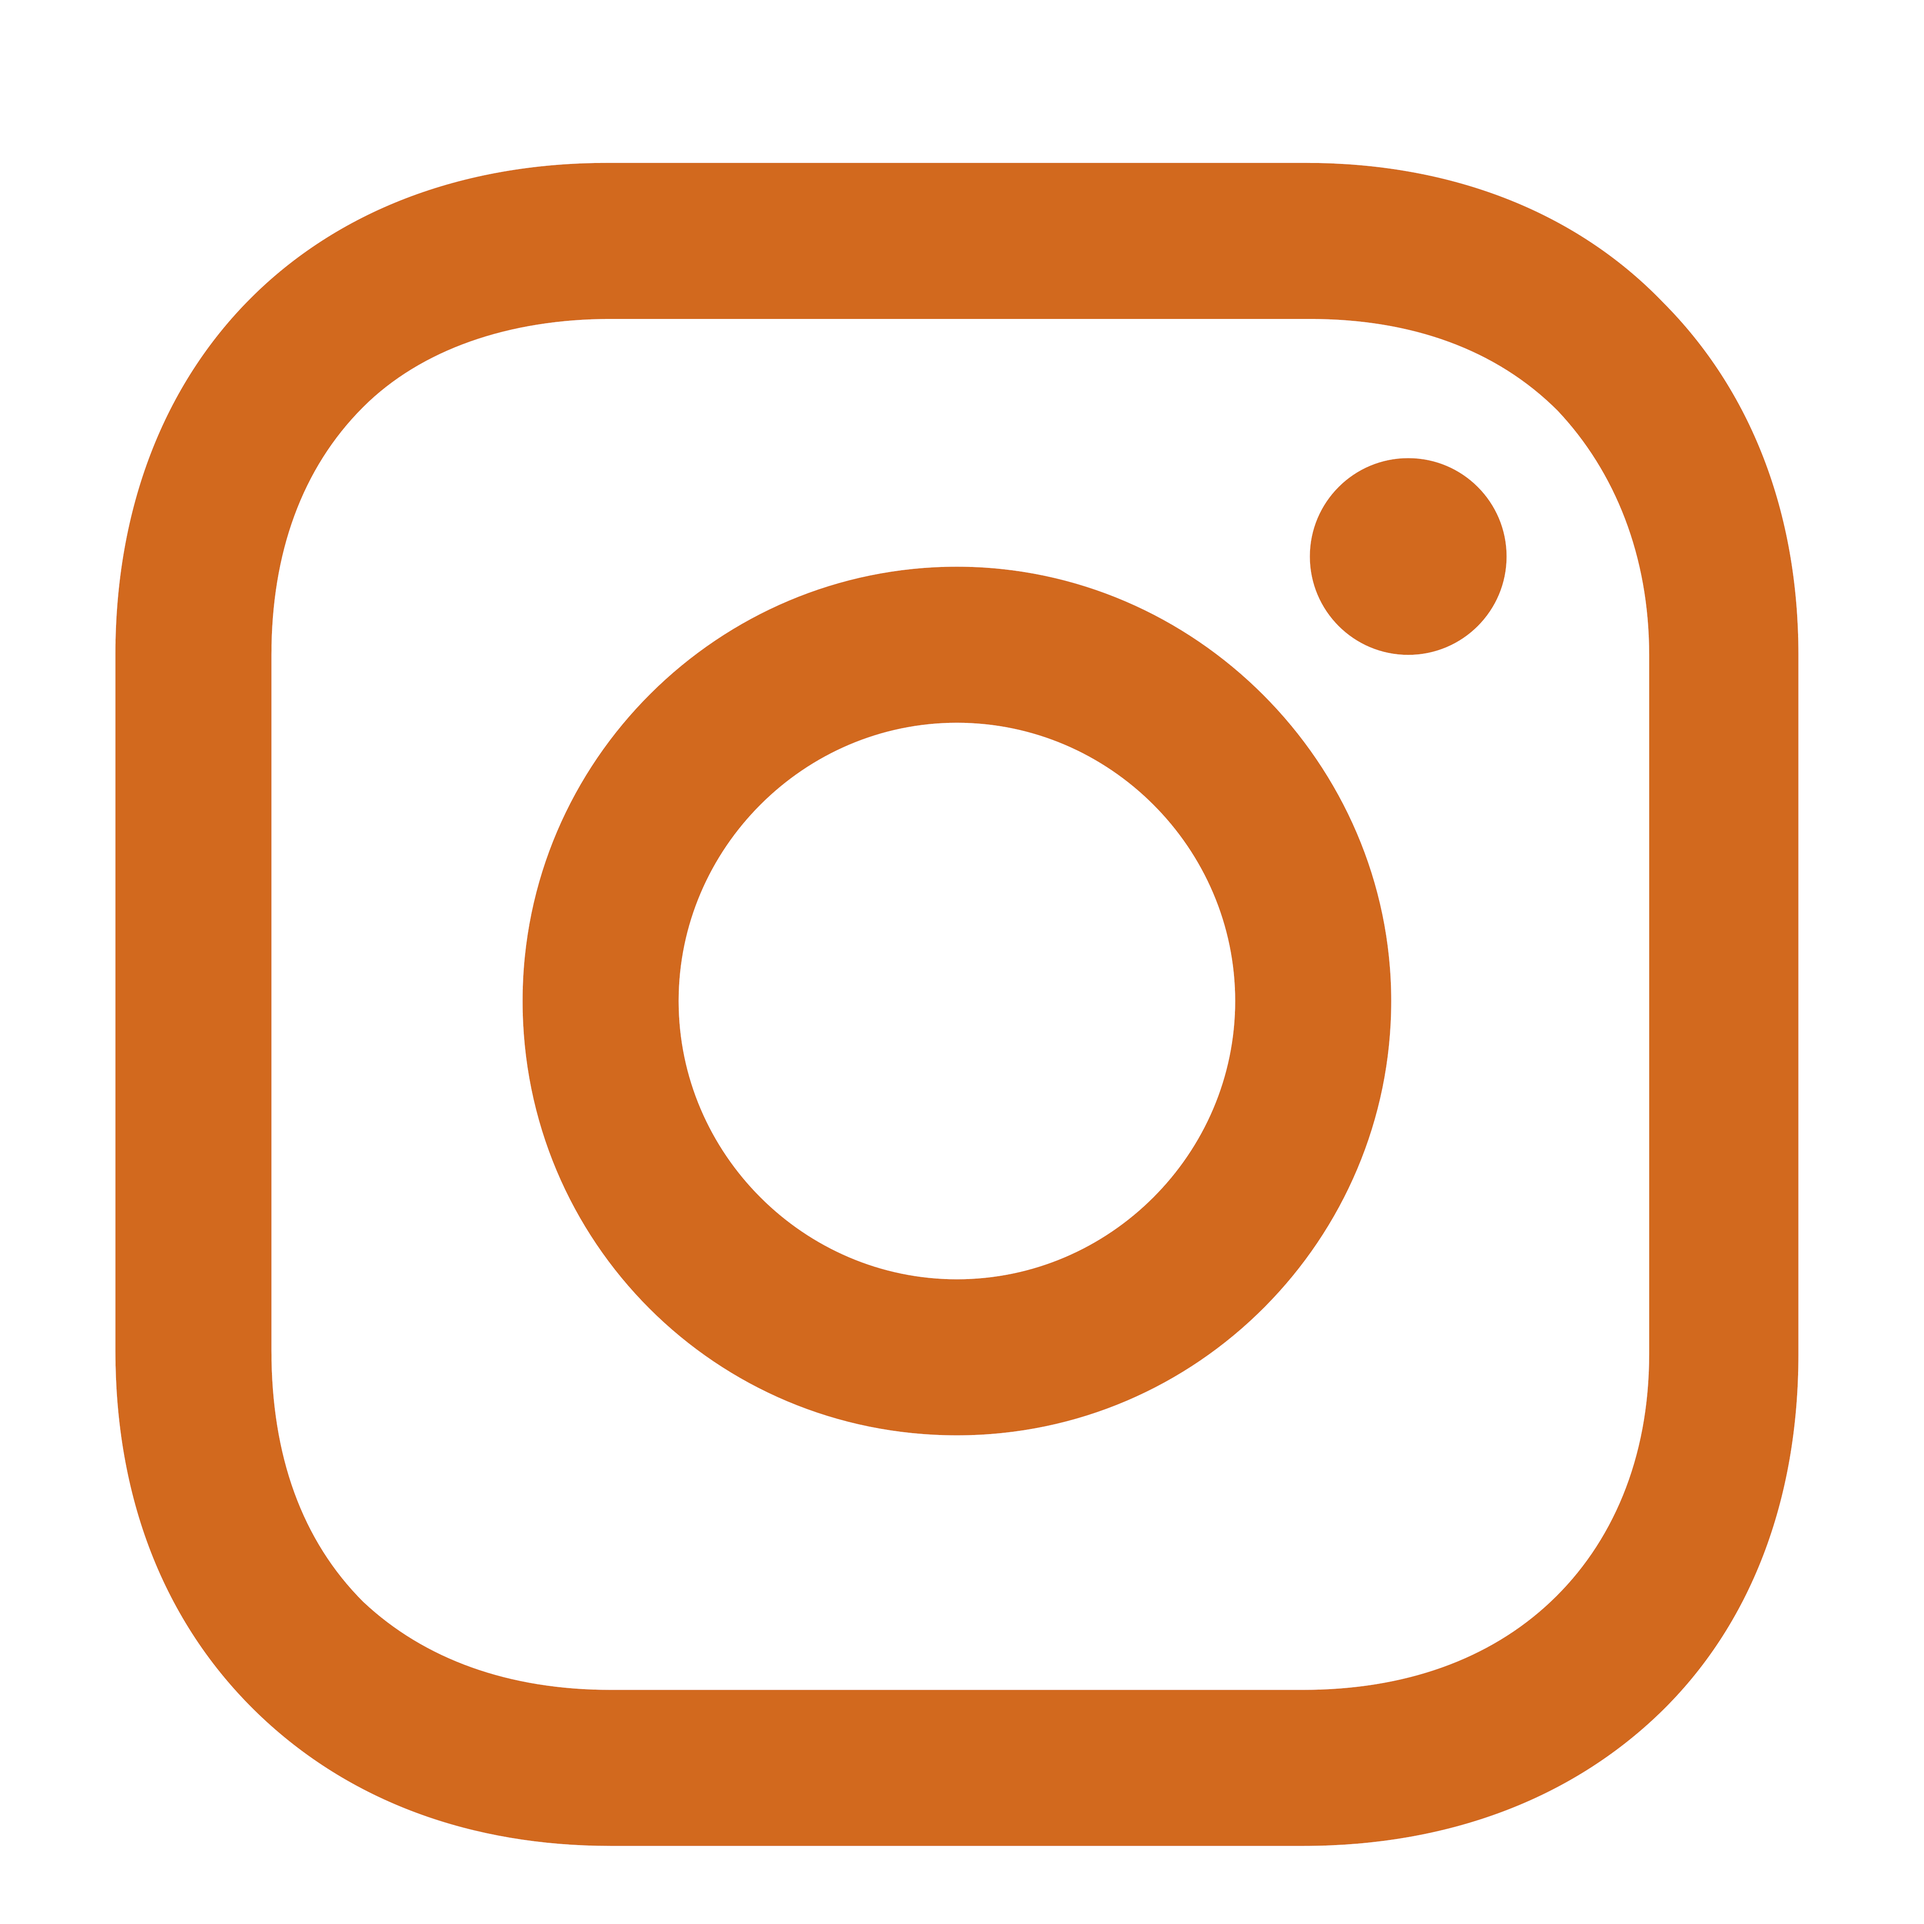
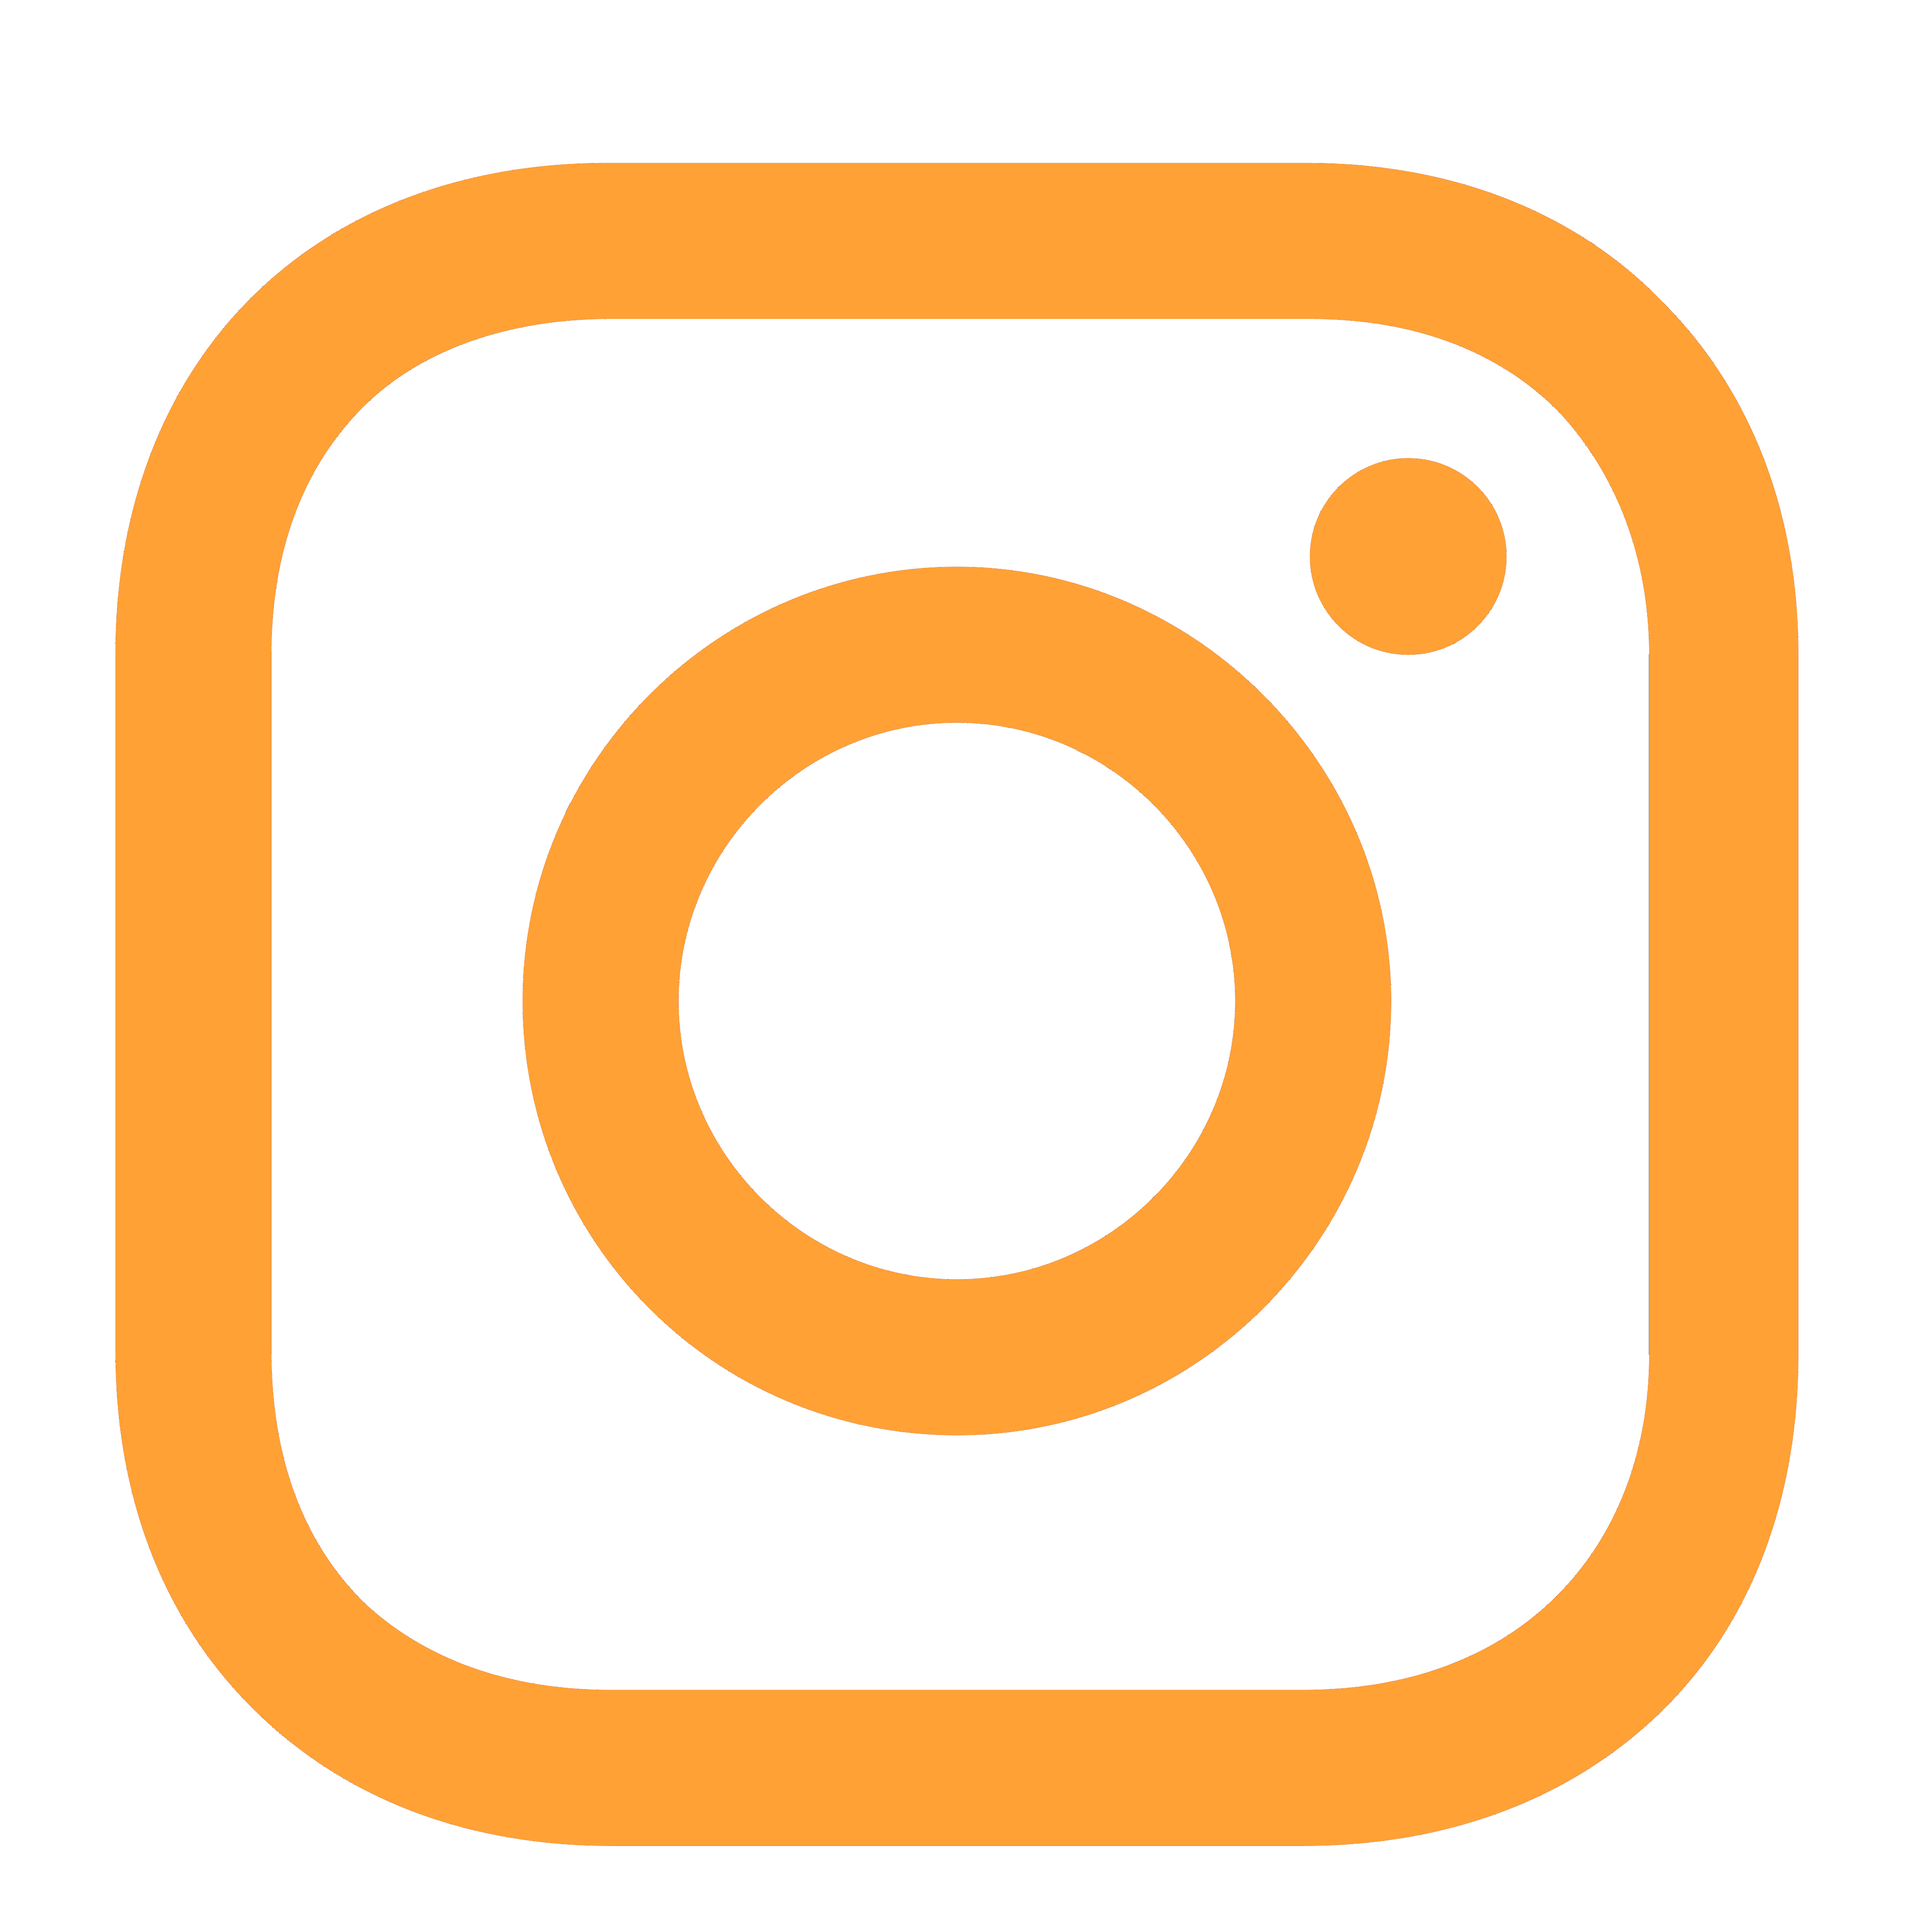
updated to frankie

diff --git a/styles.css b/styles.css
@@ -1,6 +1,6 @@
 body {
     font-family: 'Roboto', sans-serif;
-    background-color: #FFF8E7;
+    background-color: #fefaef;
     color: #4A4A4A;
     text-align: center;
     padding: 40px 20px;
@@ -12,25 +12,35 @@ body {
 }
 
 header {
-    margin-bottom: 40px;
+    margin-bottom: 0px;
 }
 
 h1 {
-    font-family: 'Press Start 2P', cursive;
+    font-family: 'Paytone One', cursive;
     font-size: 48px;
     margin-bottom: 10px;
-    color: #D2691E;
+    color: #fd9927;
     text-shadow: 2px 2px 4px rgba(0, 0, 0, 0.1);
 }
 
 h2 {
     font-size: 18px;
     font-weight: 300;
-    color: #8B4513;
+    color: #fd9927;
     margin-top: 0;
 }
 
 #mascot {
+    width: 300px;
+    height: 300px;
+    background-color: #F5DEB3;
+    margin: 0 auto 40px;
+    border-radius: 15px;
+    box-shadow: 0 10px 20px rgba(0, 0, 0, 0.1);
+    transition: transform 0.3s ease;
+}
+
+#mascot-image {
     width: 300px;
     height: 300px;
     background-color: #F5DEB3;
@@ -59,7 +69,7 @@ input[type="email"] {
     flex-grow: 1;
     padding: 12px 15px;
     font-size: 16px;
-    border: 2px solid #D2691E;
+    border: 2px solid #fd9927;
     border-radius: 25px 0 0 25px;
     background-color: #FFEFD5;
     transition: all 0.3s ease;
@@ -73,7 +83,7 @@ input[type="email"]:focus {
 button {
     padding: 14px 25px;
     font-size: 16px;
-    background-color: #D2691E;
+    background-color: #fd9927;
     color: #FFFFFF;
     border: none;
     border-radius: 0 25px 25px 0;
@@ -94,13 +104,13 @@ button:active {
 
 footer {
     margin-top: auto;
-    background-color: rgba(245, 222, 179, 0.3); /* More transparent */
+    background-color: #fd992759; /* More transparent */
     border-top: 1px solid rgba(210, 105, 30, 0.2); /* More subtle border */
 }
 
 footer p {
     font-size: 12px;
-    color: rgba(139, 69, 19, 0.6); /* More transparent text color */
+    color: #fd9927; /* More transparent text color */
 }
 
 @media (max-width: 480px) {
@@ -188,4 +198,53 @@ footer p {
 .social-icon {
     width: 32px;
     height: 32px;
+}
+
+#mascot-carousel-container {
+    margin-top: 0;
+    position: relative;
+    width: 390px;
+    height: 300px;
+    margin: 0 auto;
+    text-align: center;
+}
+
+#mascot-carousel {
+    position: relative;
+    width: 100%;
+    height: 100%;
+    display: flex;
+    justify-content: center;
+    align-items: center;
+}
+
+.mascot-image {
+    position: absolute;
+    width: 250px;
+    height: 250px;
+    object-fit: cover;
+    border: 10px solid white;
+    box-shadow: 0 5px 15px rgba(0,0,0,0.3);
+    transition: all 0.5s ease;
+    cursor: pointer;
+    border-radius: 20px;
+}
+
+.mascot-image.center:hover {
+    transform: scale(1.05) !important;
+    box-shadow: 0 8px 20px rgba(0,0,0,0.4);
+}
+
+.mascot-image:nth-child(1) {
+    transform: translateX(-70px) scale(0.9);
+    z-index: 1;
+}
+
+.mascot-image:nth-child(2) {
+    z-index: 2;
+}
+
+.mascot-image:nth-child(3) {
+    transform: translateX(70px) scale(0.9);
+    z-index: 1;
 }

diff --git a/index.html b/index.html
@@ -5,17 +5,22 @@
     <meta name="viewport" content="width=device-width, initial-scale=1.0">
     <title>Nom BKK</title>
     <link rel="stylesheet" href="styles.css">
-    <link href="https://fonts.googleapis.com/css2?family=Press+Start+2P&family=Roboto:wght@300;400&display=swap" rel="stylesheet">
+    <link href="https://fonts.googleapis.com/css2?family=Paytone+One&family=Roboto:wght@300;400&display=swap" rel="stylesheet">
 </head>
 <body>
     <header>
-        <h1>NOMxBKK</h1>
-        <h2>a lonely slice of bread, searching for loaf</h2>
+        <h1>FRANKIE x BKK</h1>
+        <h2>to eat or not to eat?</h2>
     </header>
-    <div id="mascot">
-        <!-- Replace this div with your pixel art bread mascot image -->
+    <div id="mascot-carousel-container">
+        <div id="mascot-carousel">
+            <img src="images/mascot1.jpg" alt="Mascot 1" class="mascot-image">
+            <img src="images/mascot2.gif" alt="Mascot 2" class="mascot-image">
+            <img src="images/mascot3.jpg" alt="Mascot 3" class="mascot-image">
+        </div>
+        <!-- Removed prevButton and nextButton -->
     </div>
-    <h2>follow nom's journey</h2>
+    <h2>follow frankie's journey</h2>
     <div id="subscriptionContainer">
         <form id="emailForm">
             <input type="email" id="emailInput" placeholder="Enter your email" required>
@@ -35,7 +40,7 @@
     </div>
 
     <footer>
-        <p>&copy; 2024 Nom BKK. All rights reserved.</p>
+        <p>&copy; 2024 Frankie BKK. All rights reserved.</p>
     </footer>
 
     <script src="https://code.jquery.com/jquery-3.6.0.min.js"></script>

diff --git a/script.js b/script.js
@@ -25,6 +25,41 @@ $(document).ready(function() {
             }
         });
     });
+
+    const carousel = $('#mascot-carousel');
+    const images = carousel.find('.mascot-image');
+    let currentIndex = 0;
+
+    function rotateCarousel(direction = 1) {
+        currentIndex = (currentIndex + direction + 3) % 3;
+        updateCarousel();
+    }
+
+    function updateCarousel() {
+        images.css('transition', 'all 0.5s ease');
+        images.removeClass('center');
+        
+        images.each(function(index) {
+            const offset = (index - currentIndex + 3) % 3;
+            if (offset === 0) {
+                $(this).css('transform', 'translateX(0) scale(1)').css('z-index', '2').addClass('center');
+            } else if (offset === 1) {
+                $(this).css('transform', 'translateX(70px) scale(0.9)').css('z-index', '1');
+            } else {
+                $(this).css('transform', 'translateX(-70px) scale(0.9)').css('z-index', '1');
+            }
+        });
+    }
+
+    let intervalId = setInterval(() => rotateCarousel(1), 3000);
+
+    images.click(function() {
+        const clickedIndex = images.index(this);
+        const direction = (clickedIndex - currentIndex + 3) % 3 === 1 ? 1 : -1;
+        clearInterval(intervalId);
+        rotateCarousel(direction);
+        intervalId = setInterval(() => rotateCarousel(1), 3000);
+    });
 });
 
 document.addEventListener('DOMContentLoaded', function() {
